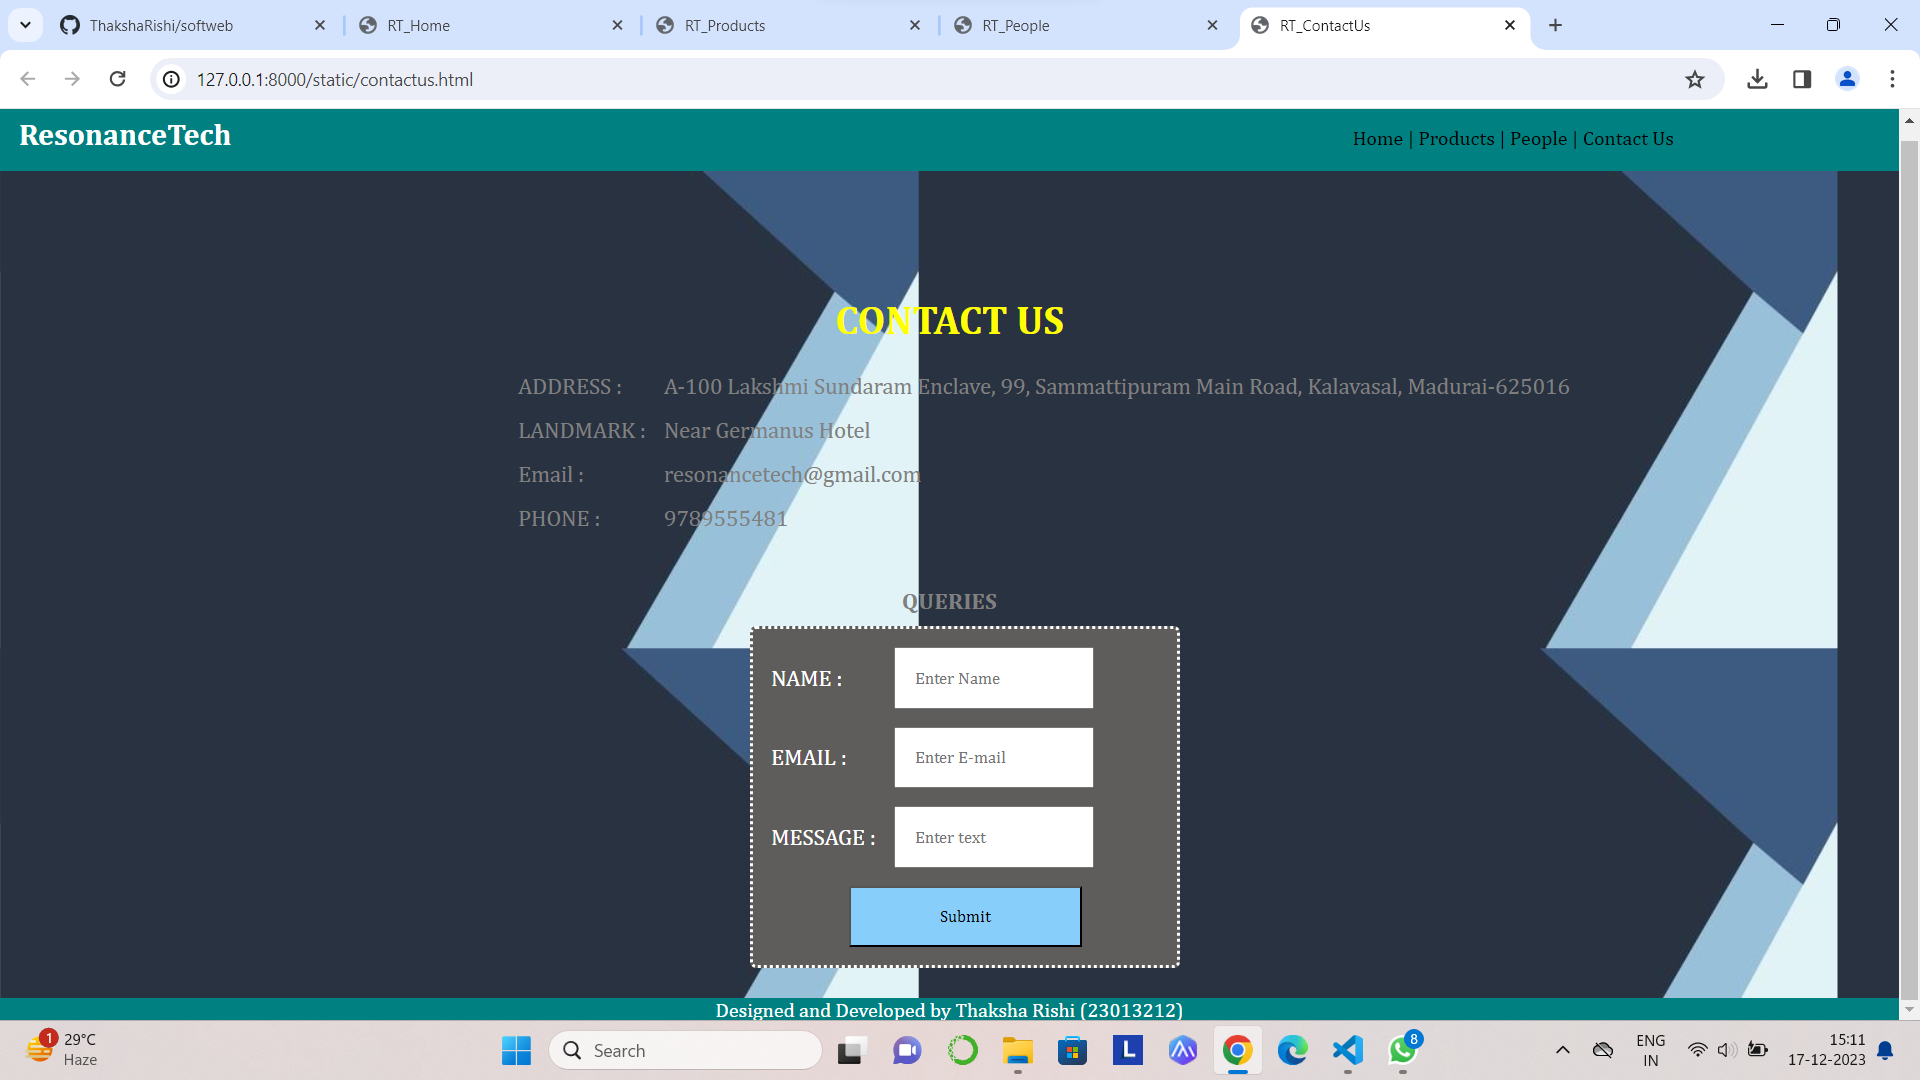
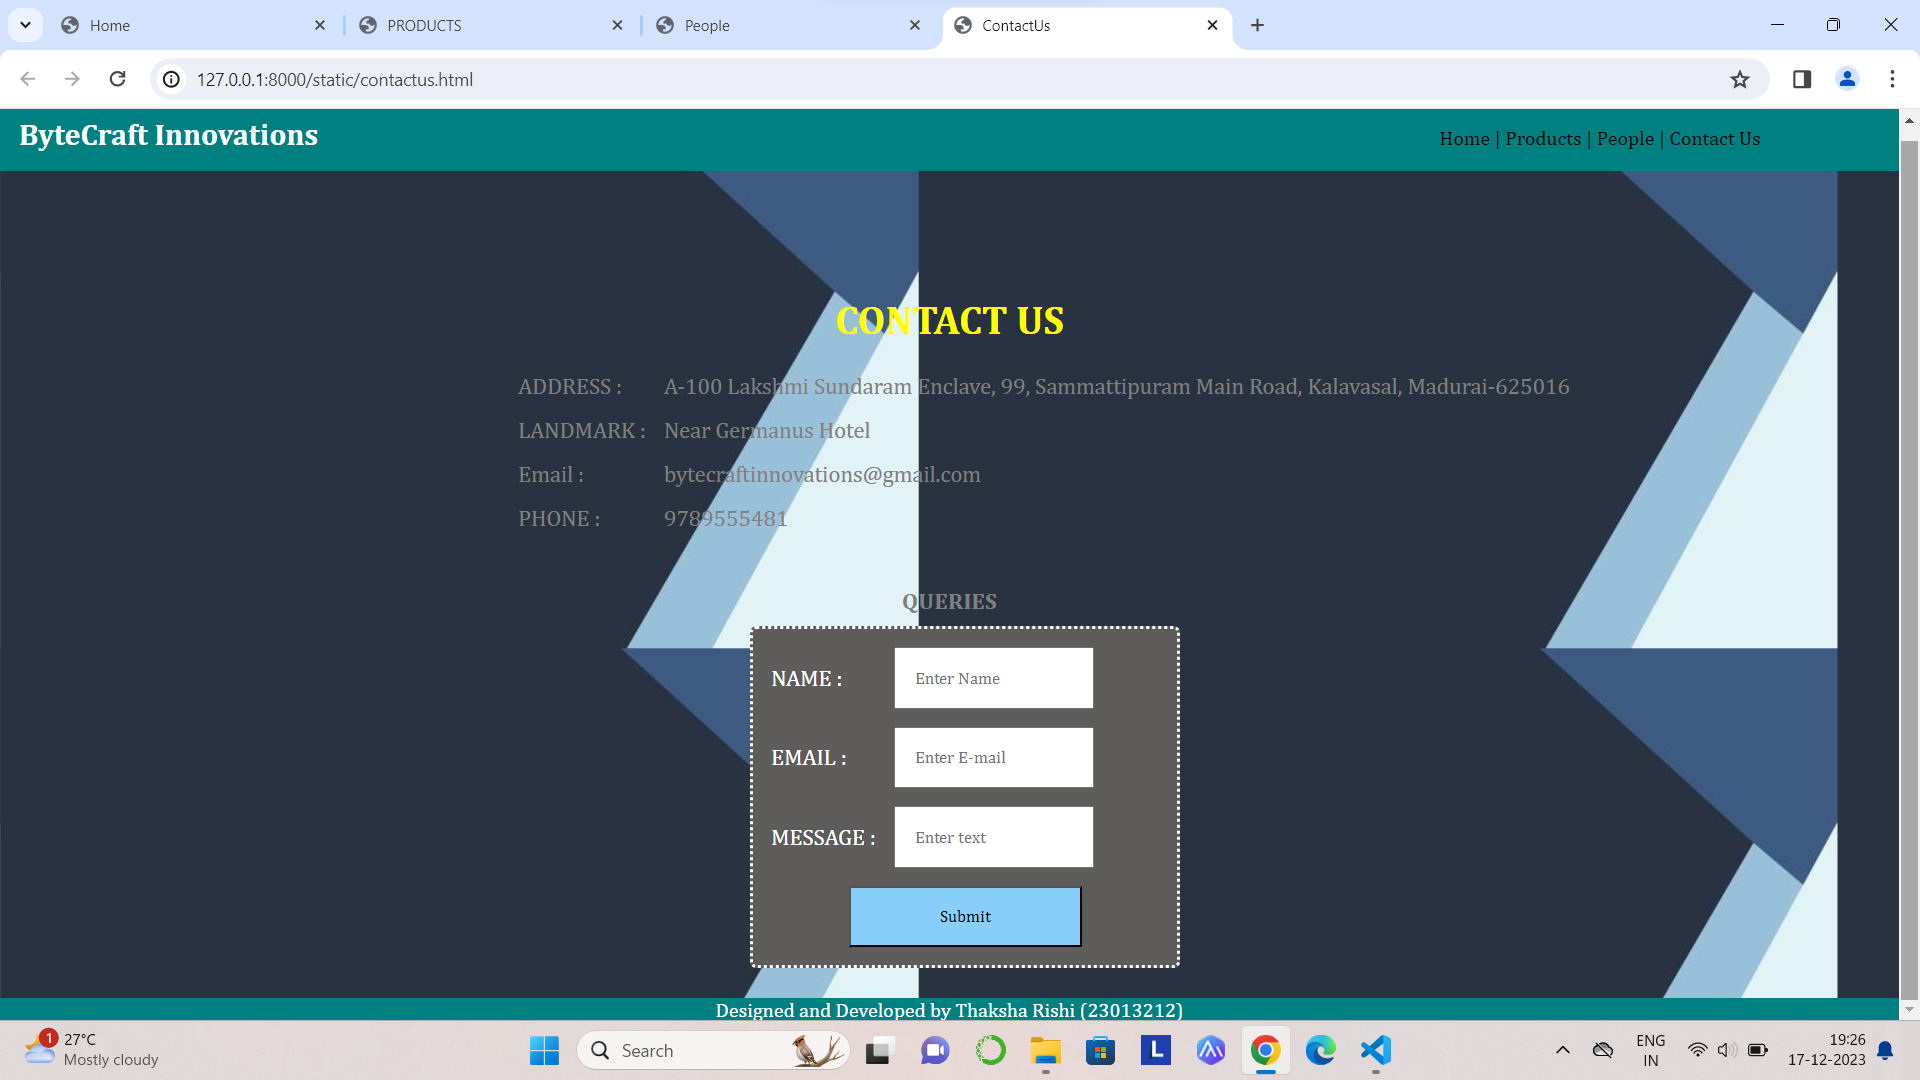
Success

diff --git a/sample/softapp/static/products.html b/sample/softapp/static/products.html
@@ -3,7 +3,7 @@
 <head>
     <meta charset="UTF-8">
     <meta name="viewport" content="width=device-width, initial-scale=1.0">
-    <title>RT_Products</title>
+    <title>PRODUCTS</title>
     <style>
         *{
             margin:0;
@@ -79,7 +79,7 @@
 <body background="background.jpeg">
     <div class="header">
         <nav id="nav">
-            <h1 class="heading1">ResonanceTech</h1>
+            <h1 class="heading1">ByteCraft Innovations</h1>
                 <ul>
                     <li class="li1"> 
                         <a href="home.html" target="_blank">Home  |</a>
@@ -100,20 +100,35 @@
         <br>
         <div class="product">
             <div class="box">
-                <img src="neckband.png" width="250px">
-                <h1>InfinityNeck</h1>
-                <p>Elevate your audio experience with style and comfort. Unleash seamless sound anytime, anywhere with this sleek neckband. </p>
+                <img src="adobe.png" width="150px">
+                <h1>Adobe Creative Cloud Suite</h1>
+                <p>Photoshop, Illustrator & More.</p>
             </div>
             <div class="box">
-                <img src="earpods.png" width="273px">
-                <h1>PulsePods</h1>
-                <p>Unleash Pure Sound Freedom. Immerse yourself in the rhythm of wireless brilliance with PulsePods- where compact design meets unparalleled audio quality. </p>
-            </div>
+                <img src="maple.png" width="260px">
+                <h1>Maple</h1>
+                <p>Statistical Package</p>
+                </div>
             <div class="box">
-                <img src="headphones.png" width="240px">
-                <h1>SonicElite Headphones</h1>
-                <p>Where comfort meets precision, immerse in superior sound. Crafted for style and engineered for experience, elevate your auditory experience.</p>
-            </div>
+                <img src="sas.png" width="245px">
+                <h1>SAS</h1>
+                <p>Statistical Analysis System.</p>
+                </div>
+            <div class="box">
+                <img src="matlab.png" width="180px">
+                <h1>Matlab</h1>
+                <p>Coding Software</p>
+                </div>
+            <div class="box">
+                <img src="pycharm.png" width="120px">
+                <h1>Jetbrains Pycharm</h1>
+                <p>Computer Programming</p>
+                </div>
+            <div class="box">
+                <img src="office.png" width="360px">
+                <h1>Microsoft Office Suite</h1>
+                <p>Word, Powerpoint, Excel & More.</p>
+                </div>
         </div>
     </div>
     <div class="bottomdiv">

diff --git a/sample/softapp/static/contactus.html b/sample/softapp/static/contactus.html
@@ -3,7 +3,7 @@
 <head>
     <meta charset="UTF-8">
     <meta name="viewport" content="width=device-width, initial-scale=1.0">
-    <title>RT_ContactUs</title>
+    <title>ContactUs</title>
     <style>
         *{
             margin:0;
@@ -105,7 +105,7 @@
 <body background="background.jpeg">
     <div class="header">
         <nav id="nav">
-            <h1 class="heading1">ResonanceTech</h1>
+            <h1 class="heading1">ByteCraft Innovations</h1>
                 <ul>
                     <li class="li1"> 
                         <a href="home.html" target="_blank">Home  |</a>
@@ -146,7 +146,7 @@
                         Email :
                     </td>
                     <td>
-                        resonancetech@gmail.com
+                        bytecraftinnovations@gmail.com
                     </td>
                 </tr>
                 <tr>

diff --git a/sample/softapp/static/home.html b/sample/softapp/static/home.html
@@ -3,7 +3,7 @@
 <head>
     <meta charset="UTF-8">
     <meta name="viewport" content="width=device-width, initial-scale=1.0">
-    <title>RT_Home</title>
+    <title>Home</title>
     <style>
         *{
             margin:0;
@@ -84,7 +84,7 @@
     <div class="header">
         <nav id="nav">
             <h1>
-                ResonanceTech
+                ByteCraft Innovations
             </h1>
                 <ul>
                     <li class="li1"> 
@@ -106,9 +106,8 @@
     <input placeholder="Search">
     </div>
         <div><pre class="heading2"><b>
-"Shaping Sonic Brilliance- Elevating
-your audio encounters with
-precision and passion."<b></pre></div>
+"Crafting Code, Shaping Solutions:
+Your Vision, Our Mission."<b></pre></div>
         <div class="edge">
             <div class="box">
                 <div class="login">

diff --git a/sample/softapp/static/person.html b/sample/softapp/static/person.html
@@ -3,7 +3,7 @@
 <head>
     <meta charset="UTF-8">
     <meta name="viewport" content="width=device-width, initial-scale=1.0">
-    <title>RT_People</title>
+    <title>People</title>
     <style>
         *{
             margin:0;
@@ -76,7 +76,7 @@
 <body background="background.jpeg">
     <div class="header">
         <nav id="nav">
-            <h1 class="heading1">ResonanceTech</h1>
+            <h1 class="heading1">ByteCraft Innovations</h1>
                 <ul>
                     <li class="li1"> 
                         <a href="home.html" target="_blank">Home  |</a>
@@ -93,7 +93,7 @@
                 </ul>
             </nav>
         </div>
-        <h1 class="heading2">People</h1>
+        <h1 class="heading2">PEOPLE</h1>
         <table class="person">
             <tr>
                 <td>

diff --git a/README.md b/README.md
@@ -35,7 +35,7 @@ home.html
 <head>
     <meta charset="UTF-8">
     <meta name="viewport" content="width=device-width, initial-scale=1.0">
-    <title>RT_Home</title>
+    <title>Home</title>
     <style>
         *{
             margin:0;
@@ -116,7 +116,7 @@ home.html
     <div class="header">
         <nav id="nav">
             <h1>
-                ResonanceTech
+                ByteCraft Innovations
             </h1>
                 <ul>
                     <li class="li1"> 
@@ -138,9 +138,8 @@ home.html
     <input placeholder="Search">
     </div>
         <div><pre class="heading2"><b>
-"Shaping Sonic Brilliance- Elevating
-your audio encounters with
-precision and passion."<b></pre></div>
+"Crafting Code, Shaping Solutions:
+Your Vision, Our Mission."<b></pre></div>
         <div class="edge">
             <div class="box">
                 <div class="login">
@@ -168,13 +167,13 @@ precision and passion."<b></pre></div>
 </body>
 <html>
 
- products.html
+products.html
 <!DOCTYPE html>
 <html lang="en">
 <head>
     <meta charset="UTF-8">
     <meta name="viewport" content="width=device-width, initial-scale=1.0">
-    <title>RT_Products</title>
+    <title>PRODUCTS</title>
     <style>
         *{
             margin:0;
@@ -250,7 +249,7 @@ precision and passion."<b></pre></div>
 <body background="background.jpeg">
     <div class="header">
         <nav id="nav">
-            <h1 class="heading1">ResonanceTech</h1>
+            <h1 class="heading1">ByteCraft Innovations</h1>
                 <ul>
                     <li class="li1"> 
                         <a href="home.html" target="_blank">Home  |</a>
@@ -271,20 +270,35 @@ precision and passion."<b></pre></div>
         <br>
         <div class="product">
             <div class="box">
-                <img src="neckband.png" width="250px">
-                <h1>InfinityNeck</h1>
-                <p>Elevate your audio experience with style and comfort. Unleash seamless sound anytime, anywhere with this sleek neckband. </p>
+                <img src="adobe.png" width="150px">
+                <h1>Adobe Creative Cloud Suite</h1>
+                <p>Photoshop, Illustrator & More.</p>
             </div>
             <div class="box">
-                <img src="earpods.png" width="273px">
-                <h1>PulsePods</h1>
-                <p>Unleash Pure Sound Freedom. Immerse yourself in the rhythm of wireless brilliance with PulsePods- where compact design meets unparalleled audio quality. </p>
-            </div>
+                <img src="maple.png" width="260px">
+                <h1>Maple</h1>
+                <p>Statistical Package</p>
+                </div>
             <div class="box">
-                <img src="headphones.png" width="240px">
-                <h1>SonicElite Headphones</h1>
-                <p>Where comfort meets precision, immerse in superior sound. Crafted for style and engineered for experience, elevate your auditory experience.</p>
-            </div>
+                <img src="sas.png" width="245px">
+                <h1>SAS</h1>
+                <p>Statistical Analysis System.</p>
+                </div>
+            <div class="box">
+                <img src="matlab.png" width="180px">
+                <h1>Matlab</h1>
+                <p>Coding Software</p>
+                </div>
+            <div class="box">
+                <img src="pycharm.png" width="120px">
+                <h1>Jetbrains Pycharm</h1>
+                <p>Computer Programming</p>
+                </div>
+            <div class="box">
+                <img src="office.png" width="360px">
+                <h1>Microsoft Office Suite</h1>
+                <p>Word, Powerpoint, Excel & More.</p>
+                </div>
         </div>
     </div>
     <div class="bottomdiv">
@@ -299,7 +313,7 @@ person.html
 <head>
     <meta charset="UTF-8">
     <meta name="viewport" content="width=device-width, initial-scale=1.0">
-    <title>RT_People</title>
+    <title>People</title>
     <style>
         *{
             margin:0;
@@ -372,7 +386,7 @@ person.html
 <body background="background.jpeg">
     <div class="header">
         <nav id="nav">
-            <h1 class="heading1">ResonanceTech</h1>
+            <h1 class="heading1">ByteCraft Innovations</h1>
                 <ul>
                     <li class="li1"> 
                         <a href="home.html" target="_blank">Home  |</a>
@@ -389,7 +403,7 @@ person.html
                 </ul>
             </nav>
         </div>
-        <h1 class="heading2">People</h1>
+        <h1 class="heading2">PEOPLE</h1>
         <table class="person">
             <tr>
                 <td>
@@ -451,7 +465,7 @@ contactus.html
 <head>
     <meta charset="UTF-8">
     <meta name="viewport" content="width=device-width, initial-scale=1.0">
-    <title>RT_ContactUs</title>
+    <title>ContactUs</title>
     <style>
         *{
             margin:0;
@@ -553,7 +567,7 @@ contactus.html
 <body background="background.jpeg">
     <div class="header">
         <nav id="nav">
-            <h1 class="heading1">ResonanceTech</h1>
+            <h1 class="heading1">ByteCraft Innovations</h1>
                 <ul>
                     <li class="li1"> 
                         <a href="home.html" target="_blank">Home  |</a>
@@ -594,7 +608,7 @@ contactus.html
                         Email :
                     </td>
                     <td>
-                        resonancetech@gmail.com
+                        bytecraftinnovations@gmail.com
                     </td>
                 </tr>
                 <tr>
@@ -657,6 +671,5 @@ contactus.html
 ![Alt text](productspage.png)
 ![Alt text](peoplepage.png)
 ![Alt text](contactpage.png)
-
 ## RESULT:
 The program for designing software company website using HTML and CSS is completed successfully.
